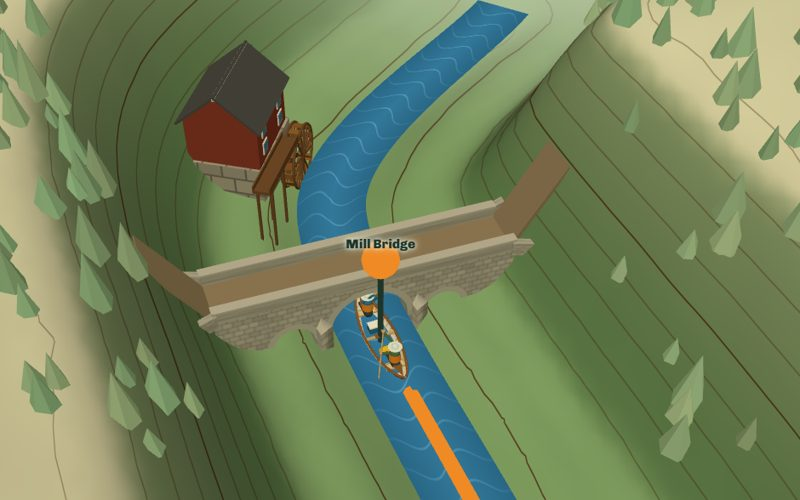
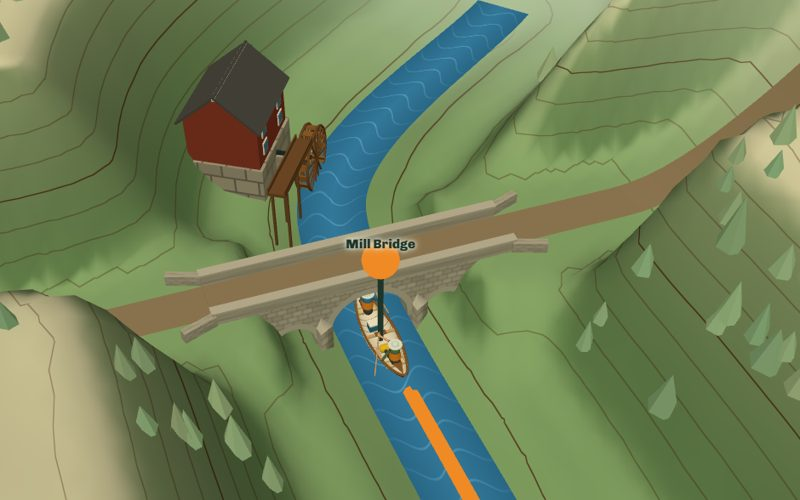
Bluffline demo: hills levelled to the bridge deck, road climbs to the hilltops

diff --git a/3d-demos/bluffline-outfitters/index.html b/3d-demos/bluffline-outfitters/index.html
@@ -192,6 +192,14 @@ function noise(x, z) {
   return a + (b - a) * u + (c - a) * v + (a - b - c + d) * u * v;
 }
 const fbm = (x, z) => noise(x, z) * 0.55 + noise(x * 2.1, z * 2.1) * 0.28 + noise(x * 4.3, z * 4.3) * 0.17;
+// the hills at both ends of Mill Bridge are cut down level with its deck, then the road climbs back up to the hilltops
+const BR = (() => { const tn = river.getTangentAt(0.872); return { p: river.getPointAt(0.872), ax: new THREE.Vector2(tn.z, -tn.x).normalize(), az: new THREE.Vector2(tn.x, tn.z).normalize() }; })(); // 0.872 = the bridge's spot (millT)
+const bridgeLocal = (x, z) => { const dx = x - BR.p.x, dz = z - BR.p.z; return [dx * BR.ax.x + dz * BR.ax.y, dx * BR.az.x + dz * BR.az.y]; };
+const DECK = 1.75, ROAD_END = 22;
+const cutW = (x, z) => {
+  const [lx, lz] = bridgeLocal(x, z), ax = Math.abs(lx), az = Math.abs(lz), S = THREE.MathUtils.smoothstep;
+  return S(ax, 2.6, 3.4) * (1 - S(ax, 9, ROAD_END)) * (1 - S(az, 2.2, 4.5));
+};
 for (let i = 0; i < pos.count; i++) {
   const x = pos.getX(i), z = pos.getZ(i);
   let d = Infinity, kd = 0;
@@ -208,7 +216,8 @@ for (let i = 0; i < pos.count; i++) {
   const bluff = THREE.MathUtils.smoothstep(d, 3.5, 9) * 7.5;
   const upland = fbm(x * 0.06, z * 0.06) * 6 * THREE.MathUtils.smoothstep(d, 6, 20);
   const floor = fbm(x * 0.2, z * 0.2) * 0.5;
-  pos.setY(i, bluff + upland + floor - (d < 2.4 ? (2.4 - d) * 0.6 : 0));
+  const h0 = bluff + upland + floor - (d < 2.4 ? (2.4 - d) * 0.6 : 0);
+  pos.setY(i, h0 + (DECK - 0.02 - h0) * cutW(x, z));
 }
 geo.computeVertexNormals();
 
@@ -225,7 +234,7 @@ const terrainMat = new THREE.ShaderMaterial({
     uniform vec3 paper, valley, upland, forest, line, light;
     varying vec3 vPos; varying vec3 vN;
     float contour(float h, float step) {
-      float v = h / step; float w = fwidth(v);
+      float v = h / step; float w = max(fwidth(v), 1e-4); // flat ground has zero slope; avoid smoothstep(0, 0)
       return 1.0 - smoothstep(0.0, w * 1.2, abs(fract(v - 0.5) - 0.5));
     }
     void main() {
@@ -261,6 +270,7 @@ function heightAt(x, z) {
     const x = (Math.random() - 0.5) * 110, z = (Math.random() - 0.5) * 110;
     if (Math.hypot(x, z) > 52) continue;
     if (clear.some(([q, r]) => Math.hypot(q.x - x, q.z - z) < r)) continue;
+    { const [lx, lz] = bridgeLocal(x, z); if (Math.abs(lz) < 4.6 && Math.abs(lx) < ROAD_END) continue; } // keep the bridge road clear
     const h = heightAt(x, z);
     if (h < 1.4 || fbm(x * 0.09 + 7, z * 0.09) < 0.42) continue;
     const s = 0.45 + Math.random() * 0.45;
@@ -563,10 +573,15 @@ const millT = Math.min(1, T1 + 0.012);
   }
   box(HALF * 2, 0.03, DEP - 0.48, road, 0, Y + 0.015, 0, bridge);
   for (const s of [-1, 1]) {
-    // short dirt approach meeting the bank, and wing walls flaring out from the parapets
-    const run = 1.6, gnd = heightAt(...(v => [v.x, v.z])(bridge.localToWorld(new THREE.Vector3(s * (HALF + run), 0, 0))));
-    const drop = Y - gnd;
-    const ramp = box(Math.hypot(run, drop) + 0.3, 0.12, DEP - 0.5, road, s * (HALF + run / 2), Y - drop / 2 - 0.04, 0, bridge); ramp.rotation.z = s * -Math.atan2(drop, run);
+    // gravel road across the levelled ground and on up to the hilltop, draped on the terrain; wing walls flare from the parapets
+    const rv = [], ri = [], tmpV = new THREE.Vector3();
+    for (let x = HALF - 0.1, k = 0; x <= ROAD_END; x += 0.25, k++) {
+      bridge.localToWorld(tmpV.set(s * x, 0, 0)); const y = heightAt(tmpV.x, tmpV.z) + 0.05;
+      rv.push(s * x, y, -0.7, s * x, y, 0.7);
+      if (k) { const a = (k - 1) * 2; ri.push(a, a + 1, a + 2, a + 1, a + 3, a + 2); }
+    }
+    const rg = new THREE.BufferGeometry(); rg.setAttribute('position', new THREE.Float32BufferAttribute(rv, 3)); rg.setIndex(ri); rg.computeVertexNormals();
+    bridge.add(new THREE.Mesh(rg, new THREE.MeshLambertMaterial({ color: 0x8f7a5a, side: THREE.DoubleSide })));
     for (const z of [-1, 1]) { const w = box(1.1, 0.5, 0.24, stone, s * (HALF + 0.45), Y + 0.1, z * (DEP / 2 + 0.12), bridge); w.rotation.y = s * z * -0.35; }
   }
 }
